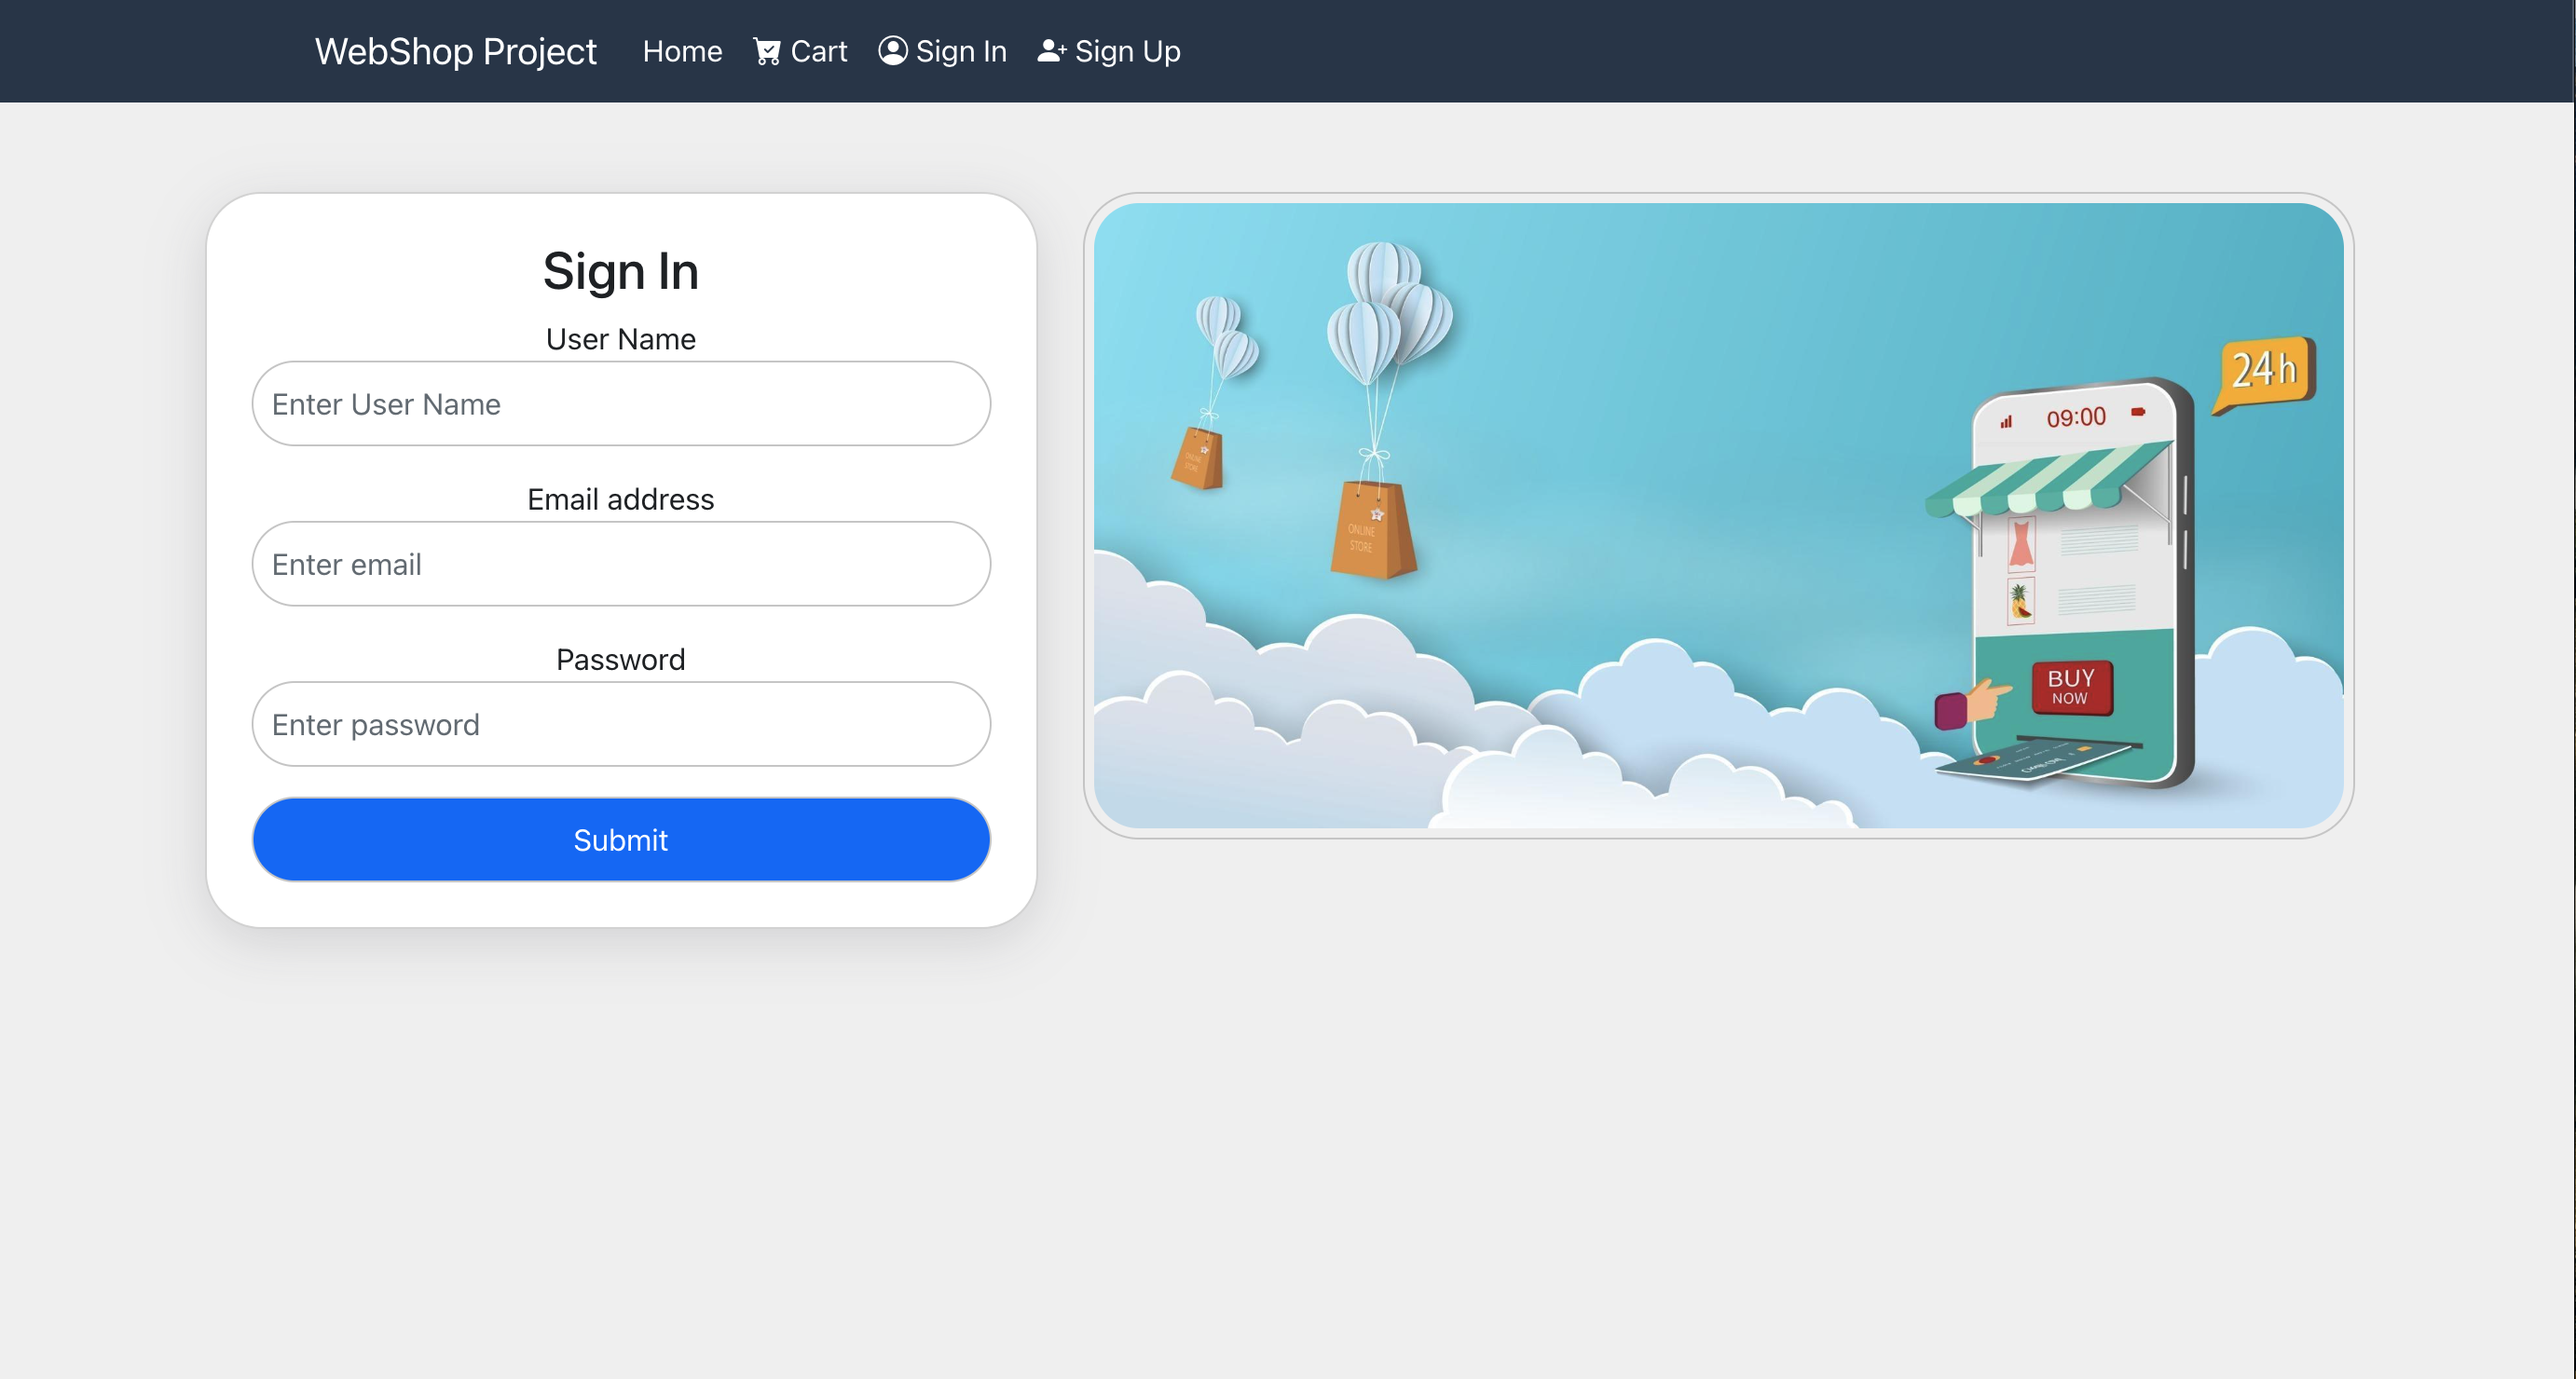
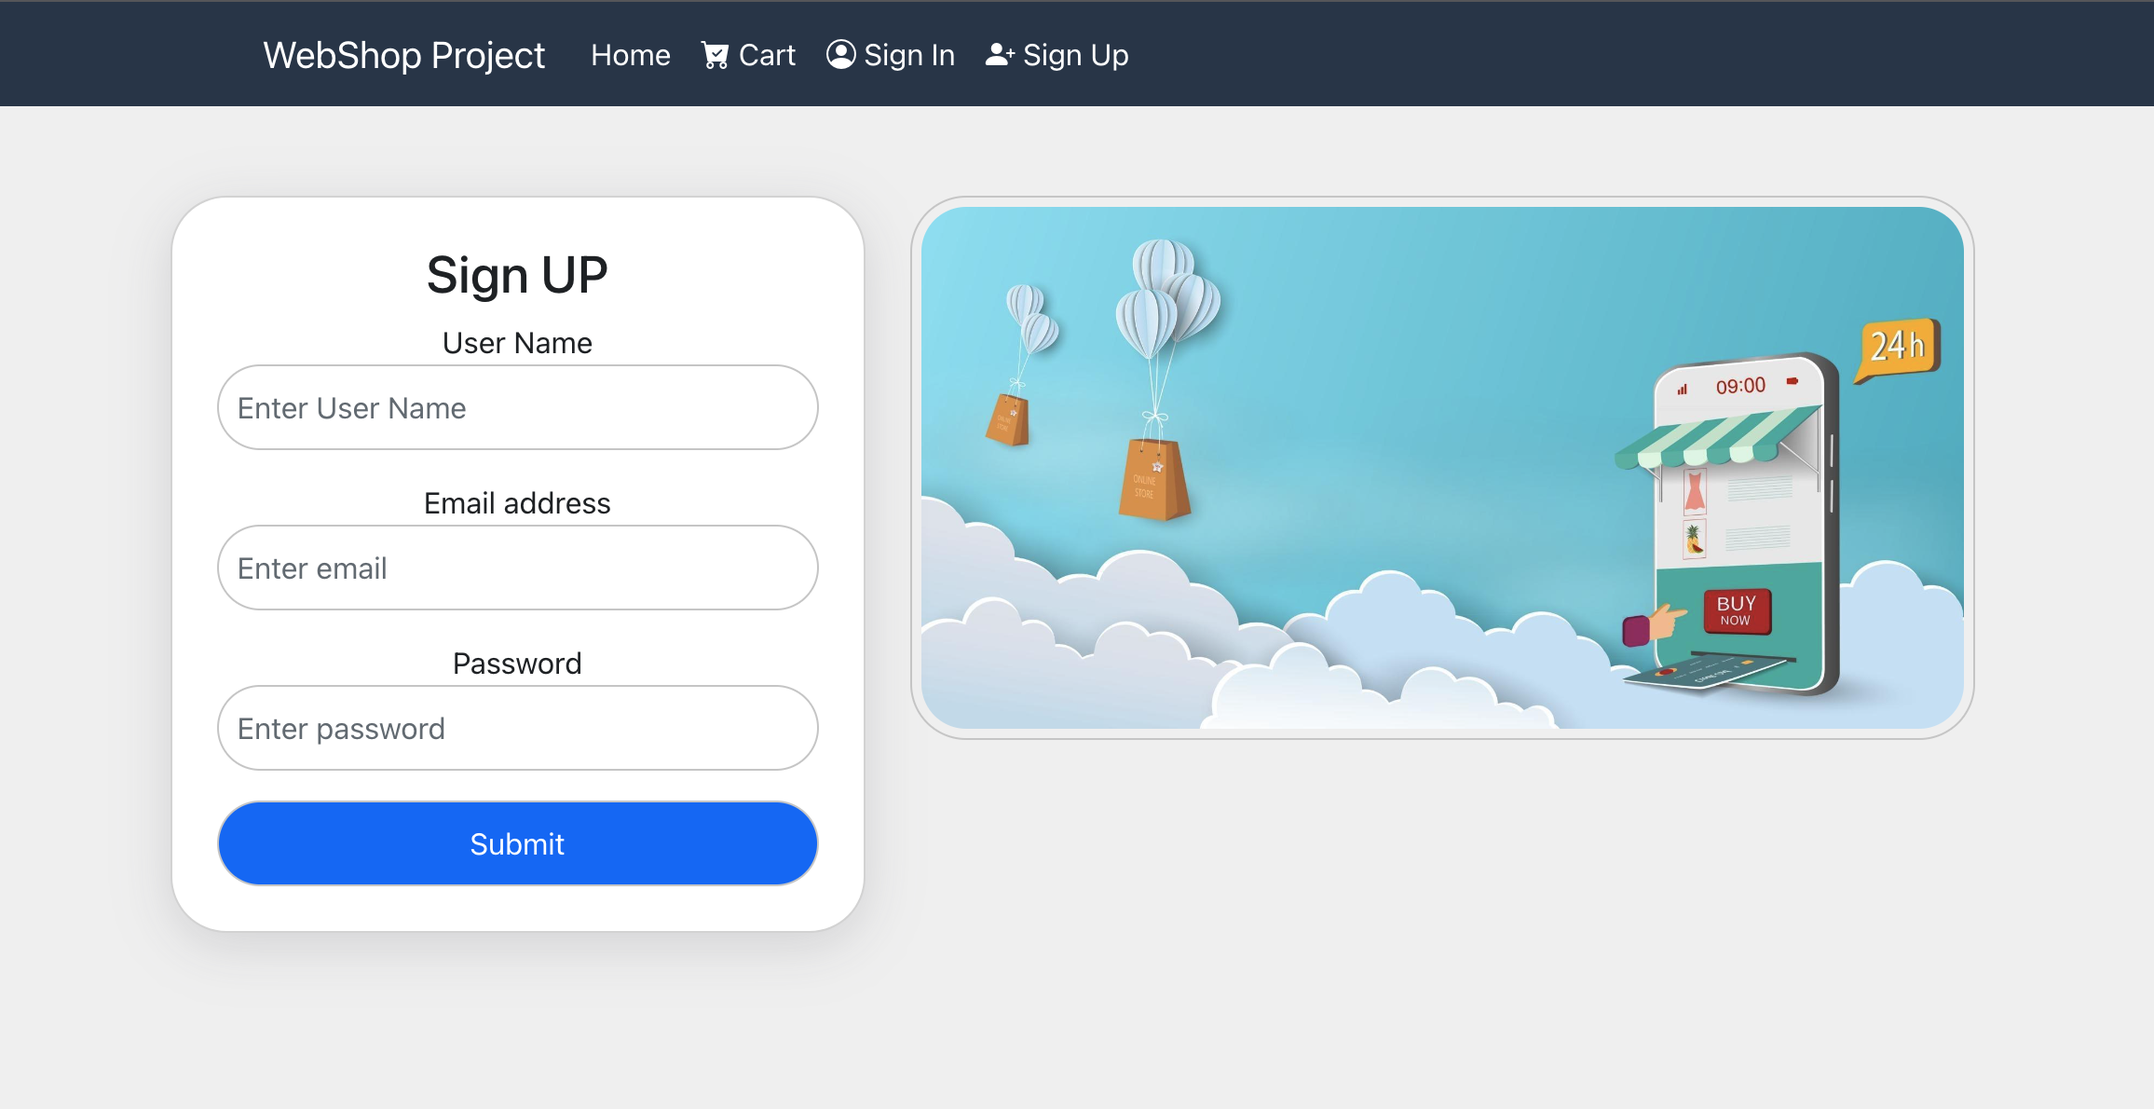
update readme

diff --git a/src/components/singup/SignUp.js b/src/components/singup/SignUp.js
@@ -80,7 +80,7 @@ function SignUp({api,setLoggedInUser}) {
                 <Col className="me-0 ">
                     <Card className="p-4 mt-5 CardSignIn">
                         <form onSubmit={SubmitHandler}>
-                            <h3>Sign In</h3>
+                            <h3>Sign UP</h3>
                             <div className="mb-3">
                                 <label>User Name</label>
                                 <input
